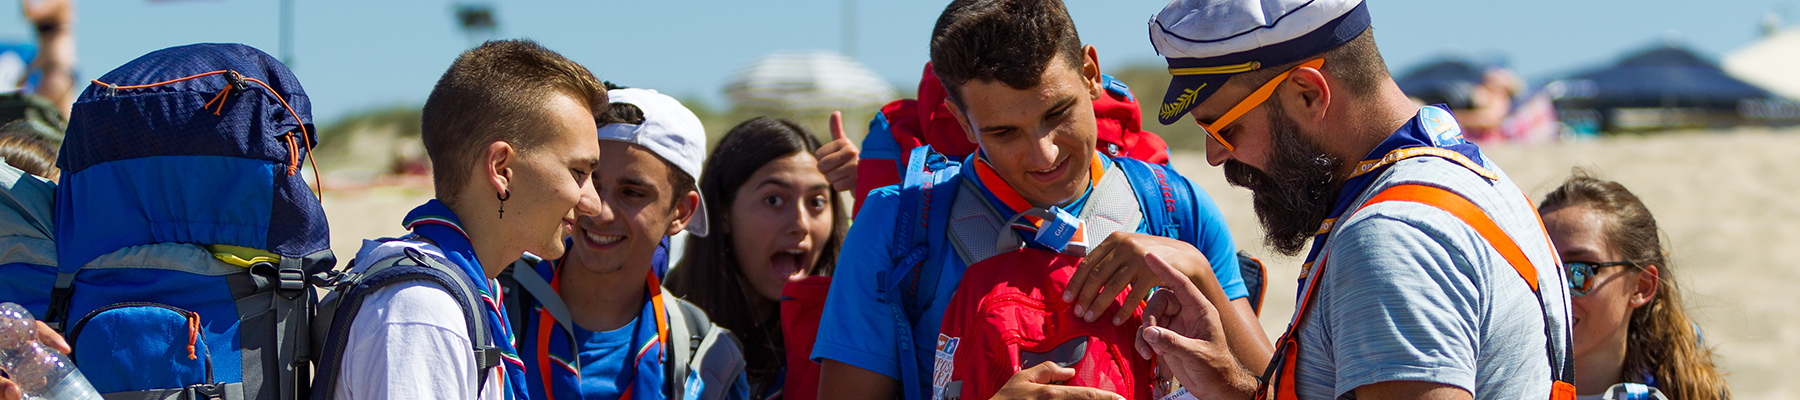
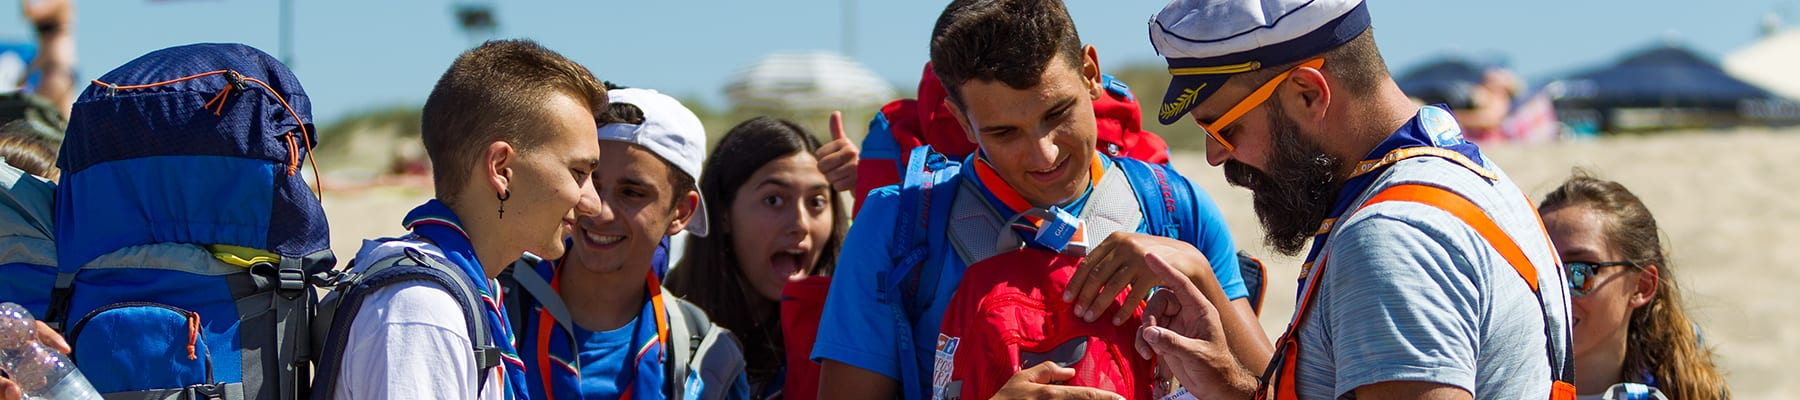
Optimize images and update theme download path in documentation

diff --git a/PUBLISHING.md b/PUBLISHING.md
@@ -64,6 +64,8 @@ Voor de beeldbestanden is de inventaris:
 
 De bestandsnamen in de beeldinventaris zijn relatief aan `assets/images/`, behalve `screenshot.png` in de root. Tijdens de licentiecontrole van 2026-11-04 zijn geen beeld- of fontbinaries gewijzigd; de banner en screenshot zijn daarna door de beheerder vernieuwd en op 2026-11-05 opnieuw bekeken. De GPL-vrijgave voor de hierboven genoemde eigen beelden is op 2026-11-09 expliciet door de beheerder bevestigd. Niet geverifieerde rechten op beelden van derden blijven open.
 
+Op 2026-11-10 zijn alleen `default-slide.jpg` en `screenshot.png` gecomprimeerd met sharp 0.34.5. De banner is verkleind van 719.793 naar 133.957 bytes, met behoud van 1800 x 400 pixels en de aanwezige auteursrecht- en camerametadata. De screenshot is als geoptimaliseerde PNG verkleind van 1.273.099 naar 328.140 bytes, met behoud van 1200 x 900 pixels. De uitsnede, inhoud, bronvermelding en licenties zijn niet gewijzigd.
+
 ## Uitgevoerde compatibiliteitsvalidatie
 
 Op 2026-11-04 is een snapshot van de werkboom getest met **WordPress 7.1.4**, **PHP 8.2.35** en `WP_DEBUG`, `WP_DEBUG_LOG` en `SCRIPT_DEBUG` ingeschakeld. Git-basis: `ed6c0ba`, met lokale wijzigingen. De geisoleerde Docker-installatie gebruikte dezelfde 99 theme-bestanden als de CI-package-allowlist, zonder de optionele OpenID- of Blocks-plugin.
@@ -112,7 +114,7 @@ Deze praktijktests zijn niet als afgerond gemarkeerd door de bovenstaande statis
 - [ ] Test toetsenbordnavigatie, zichtbare focus en focusverplaatsing via de skiplink, en voer een toegankelijkheidsscan uit met bijvoorbeeld axe of WAVE.
 - [ ] Controleer externe video-embeds op uitgaande requests, cookies en de vereiste toestemming voordat de externe inhoud wordt geladen.
 - [ ] Controleer met een performance-tool dat gebundelde media en CSS/JavaScript geen onnodige laadtijd veroorzaken.
-- [ ] Controleer de uiteindelijke download als direct installeerbare ZIP met `scouting-nederland/style.css`, zonder geneste ZIP, ontwikkelbestanden, verborgen bestanden, verboden bestandstypen of de companion-plugin. Controleer alle licentieteksten en bronvermeldingen.
+- [ ] Controleer de uiteindelijke download als direct installeerbare ZIP met `scouting-nederland-wordpress-theme/style.css`, zonder geneste ZIP, ontwikkelbestanden, verborgen bestanden, verboden bestandstypen of de companion-plugin. Controleer alle licentieteksten en bronvermeldingen. Theme Check meldt nog dat de mapnaam niet overeenkomt met de uit de ongewijzigde themanaam `Scouting Nederland` afgeleide slug `scouting-nederland`; voor het oplossen hiervan is een expliciete keuze over de thema-identiteit nodig.
 - [ ] Actualiseer de screenshot na visuele wijzigingen; de juiste afmetingen alleen bewijzen niet dat de afbeelding de actuele themavormgeving weergeeft.
 
 ## Bronnen
